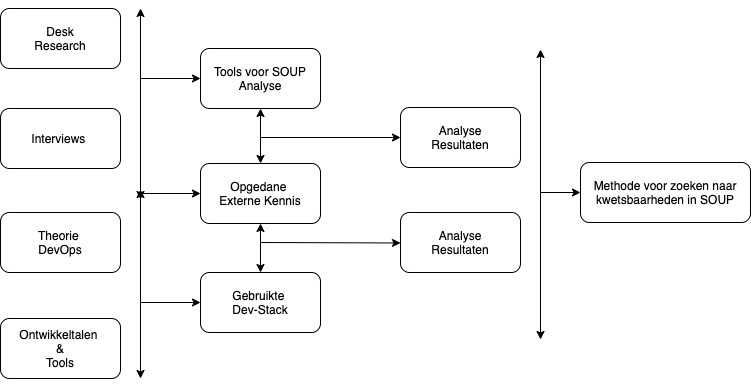
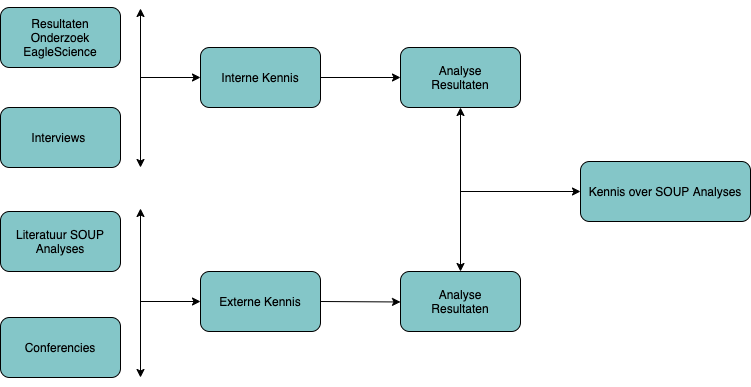
MarginPars EXit, Onderzoeksmethode opnieuw geschreven

diff --git a/Chapters/0302-OnderzoekMethode.tex b/Chapters/0302-OnderzoekMethode.tex
@@ -1,26 +1,27 @@
-%TODO: MarginPARS zetten
-%TODO: Figuur plaatsing Bas Broere vragen.
 \chapter{Onderzoeksmethode}\label{ch:onderzoeksmethode} % Chapter title
 
-Op basis van de requirements analyse beschreven in het vorige deel zijn er een aantal vragen ontstaan die verder onderzoek behoeven. Er is gekozen om het onderzoek op te delen in drie delen, waarbij iedere deel in een eigen hoofdstuk wordt beschreven. De Onderwerpen zijn gekozen omdat ze kennis verschaffen welke in het ontwerp van de nieuwe oplossing.
+Op basis van de requirements analyse beschreven in het vorige deel zijn er een aantal vragen ontstaan die verder onderzoek behoeven. Er is gekozen om het vooronderzoek op te delen in drie delen, waarbij iedere deel in een eigen hoofdstuk wordt beschreven. De onderwerpen zijn gekozen omdat ze kennis verschaffen in de materie wat vervolgens gebruikt kan worden in het uiteindelijke ontwerp.
+Als eerste dient er gekeken worden hoe er binnen EagleScience software ontwikkeld en uitgerold wordt. Deze kennis is nodig om te zien hoe er op dit moment een applicatie wordt uitgerold en/of er aanpassingen gedaan moeten worden binnen die methode. Ook geeft het inzicht in de gebruikte dev-stack welke op zijn beurt weer beperkingen oplegt in de mogelijk te gebruiken tools. Naast vragen binnen EagleScience dient er ook een onderzoek gedaan te worden over het fenomeen SOUP en de gevaren die het mogelijk met zich meebrengt. Met daarop volgend een onderzoek naar tooling die ingezet kan worden om kwetsbaarheden binnen SOUP op te sporen binnen de huidige manier van uitrollen.
 
-Als eerste dient er gekeken worden hoe er binnen EagleScience software ontwikkeld en uitgerold wordt. Deze kennis is nodig om te zien of er aanpassingen gedaan kunnen worden binnen de huidige methode en/of uitrolstraat. Daarnaast geeft het inzicht in de gebruikte platformen en daarbij de architectuur waarin er een applicatie moet worden ontwikkeld. Om verder inzicht te verkrijgen in de materie rondom SOUP en de gevaren van die het potentieel met zich meebrengt dient er onderzoek gedaan te worden naar dit onderwerp. Als laatste dient er een onderzoek gedaan te worden naar de mogelijkheden om een analyse te doen binnen de gebruikte architectuur van EagleScience. Hierin moet worden gekeken naar externe bibliotheken en/of tooling die aangemerkt zijn als veilig. Het laatste onderzoek in dit deel bevat alle resultaten samen. Dit hoofdstuk kan als ingang worden gebruikt voor het ontwerp en de implementatie welke beschreven is in het volgende deel.
+Dit hoofdstuk beschrijft een plan van aanpak hoe de onderzoeken gedaan gaan worden met in het bijzonder aandacht voor het doel, scope en de methode die gehanteerd wordt om het gezette doel te bereiken.
 
-In dit hoofdstuk zal er worden gekeken naar de onderzoeks methoden voor de drie onderzoeken. HEt zal ingaan op de scope, gebruikte bronnen en technieken om deze onderzoeken te doen.
+%In dit hoofdstuk zal er worden gekeken naar de onderzoeks methoden voor de drie onderzoeken. Het zal ingaan op de scope, gebruikte bronnen en technieken om deze onderzoeken te doen.
 %aantal vragen ontstaan die verder onderzoek benodigd behoeven. In dit deel worden de vragen geanalyseerd en beantwoord zodat er een duidelijkheid is in de materie en een goede basis wordt gelegd voor de daadwerkelijke implementatie beschreven in het volgende deel. Er is gekozen om het vooronderzoek in drie hoofdstukken op te delen omdat ieder deel onderzoek een eigen uitgesproken onderwerp heeft. Zeker het onderzoek naar de manier van werken binnen EagleScience staat in zeker los van de thee hoofdstukken over cybersecurity en later over methodes om bibliotheken te analyseren. Echter is de informatie die het resultaat is van het ene onderzoek input voor het onderzoek erna. Door eerst te kijken naar de manier waarop Eaglescience werkt kan die als een scope dienen voor de onderzoeken die er na uitgevoerd worden.
 %
 %Om verder inzicht te krijgen in de materie rondom de opdracht is er onderzoek nodig. Er worden drie onderzoek gedaan die ieder zijn eigen onderwerp hebben. Gezamelijk zorgen ze voor input voor het ontwerp en de daadwerkelijke implementatie. In dit hoofdstuk word ingegaan op de manier waarop de onderzoeken zijn uitgevoerd en welk doel zei hebben. Daarna volgt er voor ieder onderzoek een eigen hoofdstuk die het onderwerp behandeld en met resultaten komt. Als laatst is er een algehele conclussie die als input dient voor het ontwerp van de implementatie.
 
 
 \section{Scope}\label{sec:Scope}
-Software veiligheid is een breed gebied met veel relevante onderwerpen binnen het ontwikkelen van software. Echter gezien de gewenste oplossing alleen inzicht geeft in gevaren die met zich meebrengen
-Het onderzoek zal zich beperken tot de benodigde informatie voor het implementeren van de nieuwe oplossing voor een geautomatiseerde SOUP analyse. Hierdoor zullen andere onderwerpen binnen het veilig ontwerpen van software niet worden onderzocht. Zo zullen ook niet alle bedrijfprocessen binnen EagleScience worden onderzocht en alleen gekeken worden naar de processen binenn het uitrollen van de software. EagleScience doet veel aan het veilig ontwerpen van zijn eigen ontwikkelde software waardoor de noodzaak op het moment van het geven van de opdracht niet hoog ligt.
+Het veiliger maken van software is een breed gebied met veel relevante onderwerpen. Deze opdracht beperkt zich tot het analyseren van bibliotheken van derden (SOUP bibliotheken). Het voor onderzoek dat gedaan moet worden zal zich dan ook beperken tot deze analyse. Daarnaast is het noodzaak om alleen een onderzoek te doen naar methode die passen binnen de huidige manier van software ontwikkeling binnen EagleScience. Dit geeft dus een restrictie in het onderzoek naar de beste methode om kwetsbaarheden te zoeken in software.
+%Software veiligheid is een breed gebied met veel relevante onderwerpen binnen het ontwikkelen van software. Echter gezien de gewenste oplossing alleen inzicht geeft in gevaren die met zich meebrengen
+%Het onderzoek zal zich beperken tot de benodigde informatie voor het implementeren van de nieuwe oplossing voor een geautomatiseerde SOUP analyse. Hierdoor zullen andere onderwerpen binnen het veilig ontwerpen van software niet worden onderzocht. Zo zullen ook niet alle bedrijfprocessen binnen EagleScience worden onderzocht en alleen gekeken worden naar de processen binenn het uitrollen van de software. EagleScience doet veel aan het veilig ontwerpen van zijn eigen ontwikkelde software waardoor de noodzaak op het moment van het geven van de opdracht niet hoog ligt.
 
-
-\section{Onderzoek 1: Architectuur binnen EagleScience}\label{sec:onderzoeksmethode-architectuur-binnen-eaglescience}
-Het \textbf{doel} van dit onderzoek is om kennis te vergaren over de manier van uitrollen van software binnen EagleScience. Daarnaast moet het onderzoek inzicht geven in de gebruikte dev-stack( programeertalen, tooling en frameworks). De uitkomst is relevant omdat het een basis is waar de nieuwe oplossing werkzaam in moet zijn. De \textbf{methodes} die gebruikt worden zijn de interne documenten over de verschillende platformen en werkwijzen die beschikbaar zijn gesteld door het bedrijf zelf. De kennis uit deze documenten kan worden aangevuld door informatie welke verstrekt is door de leveranciers. Daarnaast zullen er gesprekken plaats vinden met collega's. Deze input geeft het volgende onderzoeks model wat te zien is in figuur~\ref{fig:OnderzoeksModelEaglescience}
+\section{Vooronderzoeken}
+De vooronderzoeken hebben ieders een eigen onderwerp, doel, onderzoeksvraag en methode
+\subsection{Onderzoek 1: Architectuur binnen EagleScience}\label{sec:onderzoeksmethode-architectuur-binnen-eaglescience}
+Het \textbf{doel} van dit onderzoek is om kennis te vergaren over de manier van uitrollen van software binnen EagleScience. Daarnaast moet het onderzoek inzicht geven in de gebruikte dev-stack( programeertalen, tooling en frameworks). De uitkomst is relevant omdat het een basis is waar de nieuwe oplossing werkzaam in moet zijn. De \textbf{Scope} van dit onderzoek beperkt zich dan ook alleen op de processen van die direct iets te maken hebben met het ontwikkelen en uitrollen van de software. Uit het doel en de scope komt de volgende \textbf{onderzoeksvraag}: "Welke methode en ontwikkeltalen worden er gebruikt om binnen EagleScience software te ontwikkelen en uit te rollen?". De \textbf{methodes} die gebruikt worden zijn de interne documenten over de verschillende platformen en werkwijzen die beschikbaar zijn gesteld door het bedrijf zelf. De kennis uit deze documenten kan worden aangevuld door informatie welke verstrekt is door de leveranciers. Daarnaast zullen er gesprekken plaats vinden met collega's. Deze input geeft het volgende onderzoeks model wat te zien is in figuur~\ref{fig:OnderzoeksModelEaglescience}
 De \textbf{bronnen} die voornamelijk gebruikt worden zijn interne documenten waarin vermeld staat hoe een project verloopt en welke tooling er gebruikt wordt. Daarnaast zal er veel gebruik gemaakt worden van kennis van collega's en die ik zelf heb opgedaan dan al niet tijdens mijn opleiding.
-\begin{figure}[htbp] %todo: Nog in kleur zetten van Eaglescience als deze goed is.
+\begin{figure}[htbp]
     \myfloatalign
     \includegraphics[width=10cm]{gfx/OnderzoeksmodelES}
     \caption{Onderzoeksmodel Eaglescience}
@@ -28,12 +29,12 @@ De \textbf{bronnen} die voornamelijk gebruikt worden zijn interne documenten waa
 \end{figure}
 
 
-\newpage % quickfix om volgordelijkheid te veranderen voor figuren...
+%\newpage % quickfix om volgordelijkheid te veranderen voor figuren...
 
 
-\section{Onderzoek 2: Literatuur studie veiligere software door SOUP analyse}\label{sec:onderzoek:-literatuur-studie-soup}
-Het \textbf{doel} van dit onderzoek is om inzicht te krijgen wat een SOUP analyse is en hoe relevant het is om dit te doen. Daarnaast wordt er gekeken wat de SOUP analyse toevoegd aan de veiligheid van de software die EagleScience levert. De gebruikte \textbf{Methodes} zullen deskresearch zijn aangevuld met interviews. Interviews met collega's zullen inzicht brengen in methodes die al worden toegepast om software veiliger te maken. Het onderzoeksmodel welke te zien is in figuur~\ref{fig:OnderzoeksModelNoodZaakSOUP} geeft een beeld hoe dit inzicht wordt bewerkstelligd. De \textbf{bronnen} welke gebruikt worden zullen online bronnen zijn aangevuld met vraaggesprekken met collega's en medewerkers van instanties die zich bezighouden met het veiliger maken van software.
-\begin{figure}[htbp] %Todo: Nog in kleur zetten van Eaglescience als deze goed is.
+\subsection{Onderzoek 2: Literatuur studie veiligere software door SOUP analyse}\label{sec:onderzoek:-literatuur-studie-soup}
+Het \textbf{doel} van dit onderzoek is om inzicht te krijgen wat een SOUP-analyse is en hoe relevant het is om dit te doen. Daarnaast wordt er gekeken wat de SOUP analyse toevoegd aan de veiligheid van de software die EagleScience levert. Met dit doel is de \textbf{scope} dat er alleen gekeken wordt naar soup-analyses en dat andere methoden die software veiliger maken wel aanbod komen als referentie maar niet verder worden uitgezocht.  De gebruikte \textbf{methodes} zullen deskresearch zijn aangevuld met interviews. Interviews met collega's zullen inzicht brengen in methodes die al worden toegepast om software veiliger te maken. Daarnaast zijn een aantal conferenties die gehouden worden met software veiligheid als onderwerp. Deze conferenties staan nu door de huidige wereld situatie online en zijn veelal terug te kijken. Het onderzoeksmodel welke te zien is in figuur~\ref{fig:OnderzoeksModelNoodZaakSOUP} geeft een beeld hoe de methoden worden toegepast om tot een eindresultaat te komen. De \textbf{bronnen} die gebruikt zullen worden zullen online bronnen zijn aangevuld met vraaggesprekken met collega's en medewerkers van instanties die zich bezighouden met het veiliger maken van software. Daarnaast worden relevante presentaties van conferenties terug gekeken voor verdere informatie.
+\begin{figure}[htbp]
     \myfloatalign
     \includegraphics[width=10cm]{gfx/OnderzoeksmodelSOUP}
     \caption{Onderzoeksmodel SOUP analyse module}
@@ -57,12 +58,12 @@ Het \textbf{doel} van dit onderzoek is om inzicht te krijgen wat een SOUP analys
 %
 
 \newpage % tijdelijk om te zorgen dat figuur op zelfde pagina als tekst komt
-\section{Onderzoek 3: Implementatie van een SOUP-analyse}\label{sec:onderzoek-naar-soup-analyse}
-Het \textBF{doel} is om een tooling/bibliotheken te vinden die gebruikt kan worden om soup analyses te doen die binnen de huidige methode van uitrollen van eaglescience past. Daarnaast moet in kaart worden gebracht welke output deze methode genereert zodat het input geeft in de nieuwe oplossing. De \textbf{methode} die gebruikt wordt is deskresearch om te onderzoeken welke tooling er bestaat. Als er een selectie is gemaakt voor een tool dient deze in een kleine testopstelling getest te worden om vervolgens te kijken of we deze kunnen implementeren in de bestaande uitrolmethode. De \textbf{bronnen} die gebruikt zullen worden zijn informatie bronnen van leveranciers van dergelijke tooling. Daarnaast zullen de bevindingen middels een review worden geverifieerd op bruikbaarheid bij de opdrachgever. Het onderzoeksmodel voor dit onderzoek is te vinden in figuur~\ref{fig:OnderzoeksModelSOUPAnalyse}
+\subsection{Onderzoek 3: Implementatie van een SOUP-analyse}\label{sec:onderzoek-naar-soup-analyse}
+Het \textBF{doel} is om een tooling/bibliotheken te vinden die gebruikt kan worden om soup analyses te doen die binnen de huidige methode van uitrollen van eaglescience past. Daarnaast moet in kaart worden gebracht welke output deze methode genereert zodat het input geeft in de nieuwe oplossing. De \textbf{methode} die gebruikt wordt is deskresearch om te onderzoeken welke tooling er bestaat. Als er een selectie is gemaakt voor een tool dient deze in een kleine testopstelling getest te worden om vervolgens te kijken of we deze kunnen implementeren in de bestaande uitrolmethode. De \textbf{bronnen} die gebruikt zullen worden zijn informatie bronnen van leveranciers van dergelijke tooling. Daarnaast zullen de bevindingen middels een review worden geverifieerd op bruikbaarheid bij de opdrachgever. Het onderzoeksmodel voor dit onderzoek is te vinden in figuur~\ref{fig:OnderzoeksModelSOUPmethode}
 
 \begin{figure}[htbp] %Todo: Aanpassen aan het onderzoeksmodel van SOUP analyse
     \myfloatalign
-    \includegraphics[width=10cm]{gfx/OnderzoeksmodelSOUP}
+    \includegraphics[width=10cm]{gfx/OnderzoeksModelSOUPMethode}
     \caption{Onderzoeksmodel SOUP analyse module}
-    \label{fig:OnderzoeksModelSOUPAnalyse}
+    \label{fig:OnderzoeksModelSOUPmethode}
 \end{figure}

diff --git a/Chapters/0101-Opdrachtgever.tex b/Chapters/0101-Opdrachtgever.tex
@@ -10,7 +10,7 @@ Het hier beschreven onderzoek en de daarbij behorende applicatie is geschreven i
 
 %Eaglescience ontwikkeld al 11 jaar complexe maatsoftware op projectbasis voor diverse klanten in Nederland. Dit doet het door intensief met de klant te werken aan een eindproduct. Naast het ontwikkelen van software biedt Eaglescience ook de mogelijkheid aan klanten om zorg te dragen voor de eventuele hosting van het opgeleverde product. Eaglescience kan hierdoor nog beter garanderen dat de geboden kwaliteit in de software gewaarborgd blijft tijdens de levensduur van de software.
 
-\section{Organisatie}\label{sec:organisatie}\marginpar{Organisatie}
+\section{Organisatie}\label{sec:organisatie}
 
 %TODO: beschrijving van de drie divisies. welke taken hebben iederen precies. en wat zijn de de hoofdoelen.
 Eaglescience BV bestaat uit drie divisies: Innovations, Software en Solutions (figuur~\ref{fig:Eaglescience organogram}). Het bestaat op het moment van schrijven uit $\pm$ 20 medewerkers waarvan 75\% verantwoordelijk is voor de ontwikkeling van de geleverde software. De andere 25\% bekleed een support rol zoals project manager, finance manager, quality manager, automatisering etc.
@@ -30,17 +30,16 @@ Het dagelijks bestuur is handen van:
 \end{itemize}
 Onder het dagelijks bestuur valt Team Eaglescience wat bestaat uit projectmanagers en ontwikkelaars. Deze zijn onderverdeeld in diverse scrum teams die ieders verantwoordelijk zijn voor een project. De ontwikkelaars worden parallel ingezet op meerdere projecten om kennisdeling te bevorderen.
 
-\subsection{Missie}\label{subsec:missie}\marginpar{Missie}
+\subsection{Missie}\label{subsec:missie}
 
 De missie van Eaglescience is het bedienen van haar partners door een ontwerp, ontwikkeling en service te bieden op het gebied van op maat gemaakte IT-oplossingen. Om hier voor te zorgen heeft Eaglescience goed opgeleide IT-professionals in dienst die zichzelf continue ontwikkelen op de “cutting edge” van IT-technologie. De hoofdcompetenties van de medewerkers zijn: innovatief, intelligent, klant georiënteerd, flexibel en ambitieus.
 
-\subsection{Visie}\label{subsec:visie}\marginpar{Visie}
+\subsection{Visie}\label{subsec:visie}
 Eaglescience streeft er als innovatief IT-bedrijf naar om software te ontwikkelen als een Business-to-Business dienst. Middels technische vaardigheden bouwen we veilige en hoogwaardige software die bijdraagt aan een betere wereld. Omdat we agile werken, leveren we precies wat nodig is, niets meer en niets minder. Wij helpen onze klanten zoeken naar een langdurige betrokkenheid en samenwerking op basis van zowel vertrouwen als wederzijds respect. \\
 
 Omdat elke vraag uniek is, ontwikkeld Eaglescience op maat gemaakte en innovatieve software.  We zijn van plan deel uit te maken van het hele proces van het formuleren van een idee tot het lanceren van het product en het waarborgen van de productie levenscyclus. Onze belangrijkste succesfactor zijn de mensen, die zich continu ontwikkelen door met de nieuwste technieken te werken op diverse projecten. Wij streven naar een optimale balans tussen werk en privé. Dit geeft onze medewerkers veel vrijheid, maar vereist zelfdiscipline en verantwoordelijkheid.
 
 \subsection{Strategie}\label{subsec:strategie}
-\marginpar{strategische thema's}
 Eaglescience levert de visie via vier strategische thema's:
 \begin{itemize}
     \item Maatschappelijke verantwoordelijkheid
@@ -57,7 +56,7 @@ We streven ernaar om veilige en hoogwaardige software diensten te leveren die wa
 \end{itemize}
 
 \section{Werkwijze}\label{sec:werkwijze}
-\marginpar{Werkwijze}
+
 Zoals eerder gemeld werkt Eaglescience op projectbasis met ontwikkelaars in meerdere teams. Er wordt geprobeerd "Full scrum" te werken waarbij de requirements van de klant centraal staan. Als een project wordt aangenomen door het managementteam dan wordt deze in sprints in samenspraak met de klant ontwikkeld. De klant wordt nauw betrokken bij het verloop van de ontwikkeling door het geven van demo's aan het einde van iedere sprint. Hier wordt gemeten hoe de applicatie zich gedraagt met betrekking tot de requirements van de klant. Dit is ook het moment dat er feedback gegeven wordt en waar nodig gestuurd kan worden in het verdere verloop. Op het moment dat er een applicatie klaar is wordt de software al dan niet overgedragen aan de klant of doorgegeven aan support en hosting die verantwoordelijk zijn voor de daadwerkelijke hosting van de software.
 
 %TODO: Figuur in NL vertalen
@@ -71,5 +70,5 @@ Zoals eerder gemeld werkt Eaglescience op projectbasis met ontwikkelaars in meer
 Naast het ontwikkel process zijn er een aantal supporting processen die ervoor zorg dragen dat het bedrijf blijft draaien en er nieuwe mensen aangenomen kunnen worden. Maar ook een deel automatisering die voor ondersteuning zorgt van platformen waarop ontwikkeld en/of gehosted wordt.  Eaglescience ontwikkeld op projectbasis en op die manier worden er ook inkomsten gegenereerd. Alle processen die draaien moeten dus ingezet kunnen worden op projecten van klanten. Als er een project voor in huis gebruik wordt ondernomen moet er een duidelijk beeld zijn of er op termijn winst mee te behalen is op monetair vlak dan al niet tijdswinst of ontwikkel gemak.
 
 \section{Relevante en actuele ontwikkelingen binnen Eaglescience}\label{sec:relevante-en-actuele-ontwikkelingen-binnen-eaglescience}
-\marginpar{actuele ontwikkelingen}
+
 Eaglescience is aan het groeien, zowel in het aantal projecten waar aan gewerkt wordt als het aantal medewerkers. Daarnaast worden de diensten die Eaglescience aanbied ook uitgebreid, en wordt het hosten van de ontwikkelde applicaties steeds vaker aangeboden. Door deze inzet ligt de verantwoordelijkheid niet alleen bij het leveren van een veilige en hoogwaardige software, maar ook bij het leveren van een veilige hosting service. Naast de groei van het bedrijf is ook zeker de uitbreiding van diensten die aangeboden worden een reden om taken die geautomatiseerd kunnen dan ook te automatiseren.

diff --git a/main.tex b/main.tex
@@ -63,30 +63,30 @@
 %	PRE-CONTENT THESIS PAGES
 %----------------------------------------------------------------------------------------
 
-%\include{FrontBackMatter/Titlepage} % Main title page
+\include{FrontBackMatter/Titlepage} % Main title page
 
-%\include{FrontBackMatter/Titleback} % Back of the title page
+\include{FrontBackMatter/Titleback} % Back of the title page
 
-%\cleardoublepage\include{FrontBackMatter/Dedication} % Dedication page
+\cleardoublepage\include{FrontBackMatter/Dedication} % Dedication page
 
-%\cleardoublepage\include{FrontBackMatter/Foreword} % Uncomment and create a Foreword.tex to include a foreword
+\cleardoublepage\include{FrontBackMatter/Foreword} % Uncomment and create a Foreword.tex to include a foreword
 
-%\cleardoublepage\include{FrontBackMatter/Abstract} % Abstract page
+\cleardoublepage\include{FrontBackMatter/Abstract} % Abstract page
 
-%\cleardoublepage\include{FrontBackMatter/Publications} % Publications from the thesis page
+\cleardoublepage\include{FrontBackMatter/Publications} % Publications from the thesis page
 
-%\cleardoublepage\include{FrontBackMatter/Acknowledgments} % Acknowledgements page
+\cleardoublepage\include{FrontBackMatter/Acknowledgments} % Acknowledgements page
 
 \pagestyle{scrheadings} % Show chapter titles as headings
 
-%\cleardoublepage\include{FrontBackMatter/Contents} % Contents, list of figures/tables/listings and acronyms
+\cleardoublepage\include{FrontBackMatter/Contents} % Contents, list of figures/tables/listings and acronyms
 
 \cleardoublepage
 
 \pagenumbering{arabic} % Arabic page numbering for thesis content (1, 2, 3, etc)
 %\setcounter{page}{90} % Uncomment to manually start the page counter at an arbitrary value (for example if you wish to count the pre-content pages in the page count)
 
-%\cleardoublepage % Avoids problems with pdfbookmark
+\cleardoublepage % Avoids problems with pdfbookmark
 
 %----------------------------------------------------------------------------------------
 %	THESIS CONTENT - CHAPTERS
@@ -94,7 +94,7 @@
 
 % Text on the Part 1 page describing  the content in Part 1
 
-%\include{Chapters/0000-Inleiding}
+\include{Chapters/0000-Inleiding}
 
 \ctparttext{}
 \part{Opdracht}\label{prt:opdracht}
@@ -106,32 +106,32 @@
 \include{Chapters/0201-ReqPlanInl}
 \include{Chapters/0202-RequirementAnalyse}
 
-%\ctparttext{}
-%\part{Onderzoek}\label{prt:Onderzoek} % Second part of the thesis
-%\include{Chapters/0301-OnderzoekInl}
-%\include{Chapters/0302-OnderzoekMethode}
-%\include{Chapters/0303-OnderzoekEaglescience}
-%\include{Chapters/0304-OnderzoekCyberSecurity}
-%\include{Chapters/0305-OnderzoekSOUPAnalyse}
-%\include{Chapters/0306-OnderzoekConc}
-%
-% \ctparttext{}
-% \part{Ontwikkeling van SOUP module}\label{prt:Impolementatie}
-% \include{Chapters/0401-impInl}
-% \include{Chapters/0402-FunctioneelOntwerp}
-% \include{Chapters/0403-implarchitectuur}
-% \include{Chapters/0404-implImplementatie}
-% \include{Chapters/0405-implTesting}
-% \include{Chapters/0406-implDeploy}
-% \include{Chapters/0407-implResultaat}
-%
-% \ctparttext{}
-%
-% \part{Conclusie en andere afsluitende dingen}\label{prt:Conclussie}
-% \include{Chapters/0501-conInl}
-% \include{Chapters/0502-conclussie}
-%
-%\cleardoublepage % Empty page before the start of the next part
+\ctparttext{}
+\part{Onderzoek}\label{prt:Onderzoek} % Second part of the thesis
+\include{Chapters/0301-OnderzoekInl}
+\include{Chapters/0302-OnderzoekMethode}
+\include{Chapters/0303-OnderzoekEaglescience}
+\include{Chapters/0304-OnderzoekCyberSecurity}
+\include{Chapters/0305-OnderzoekSOUPAnalyse}
+\include{Chapters/0306-OnderzoekConc}
+
+ \ctparttext{}
+ \part{Ontwikkeling van SOUP module}\label{prt:Impolementatie}
+ \include{Chapters/0401-impInl}
+ \include{Chapters/0402-FunctioneelOntwerp}
+ \include{Chapters/0403-implarchitectuur}
+ \include{Chapters/0404-implImplementatie}
+ \include{Chapters/0405-implTesting}
+ \include{Chapters/0406-implDeploy}
+ \include{Chapters/0407-implResultaat}
+
+ \ctparttext{}
+
+ \part{Conclusie en andere afsluitende dingen}\label{prt:Conclussie}
+ \include{Chapters/0501-conInl}
+ \include{Chapters/0502-conclussie}
+
+\cleardoublepage % Empty page before the start of the next part
 
 %------------------------------------------------
 
@@ -145,25 +145,26 @@
 %	THESIS CONTENT - APPENDICES
 %----------------------------------------------------------------------------------------
 
-%\appendix
+\appendix
 %
-%\part{Appendix}\label{prt:Appendix} % New part of the thesis for the appendix
+
+\part{Appendix}\label{prt:Appendix} % New part of the thesis for the appendix
 %
-%\include{Chapters/A01-Interviews}
-%\include{Chapters/A02-Requirements-specificatie}
-%\include{Chapters/A03-VoortgangModule}
-%\include{Chapters/A04-begrippenlijst}
-%\include{Chapters/Axx-TypeSetTests}
+\include{Chapters/A01-Interviews}
+\include{Chapters/A02-Requirements-specificatie}
+\include{Chapters/A03-VoortgangModule}
+\include{Chapters/A04-begrippenlijst}
+\include{Chapters/Axx-TypeSetTests}
 
 %----------------------------------------------------------------------------------------
 %	POST-CONTENT THESIS PAGES
 %----------------------------------------------------------------------------------------
 
-%\cleardoublepage\include{FrontBackMatter/Bibliography} % Bibliography
+\cleardoublepage\include{FrontBackMatter/Bibliography} % Bibliography
 
-%\cleardoublepage\include{FrontBackMatter/Declaration} % Declaration
+\cleardoublepage\include{FrontBackMatter/Declaration} % Declaration
 
-%\cleardoublepage\include{FrontBackMatter/Colophon} % Colophon
+\cleardoublepage\include{FrontBackMatter/Colophon} % Colophon
 
 %----------------------------------------------------------------------------------------
 

diff --git a/Chapters/0102-Opdracht.tex b/Chapters/0102-Opdracht.tex
@@ -2,7 +2,7 @@
 
 \chapter{Opdracht}\label{ch:opdracht} % Chapter title
 
-%TODO: MarginPARS zetten
+
  % For referencing the chapter elsewhere, use \autoref{ch:examples}
 Tegenwoordig zijn software-bibliotheken niet meer weg te denken in het huidige software-ontwikkelproces. Bibliotheken geven ontwikkelaars de mogelijkheid code te hergebruiken in meerdere projecten, om zo efficiënter te kunnen ontwikkelen. Dit helpt op zijn beurt om de Time-To-Market te verkorten. Bibliotheken kunnen door bedrijven zelf geschreven worden, in het geval van EagseScience is dit ArchES, of worden overgenomen van andere bedrijven/instellingen. ArchES is echter ook afhankelijk van een aantal bibliotheken die niet ontwikkeld zijn door Eaglescience. Hierdoor kan niet worden voorkomen dat bibliotheken worden gebruikt waarvan de afkomst niet geheel kan worden herleiden.
 

diff --git a/Chapters/0103-PlanVanAanpak.tex b/Chapters/0103-PlanVanAanpak.tex
@@ -1,7 +1,5 @@
 
 \chapter{Plan van Aanpak}\label{ch:planvanaanpak} % Chapter title
-
-%TODO: MarginPARS zetten ?? Nodig
 %TODO: verder uitwerken wat er precies in elke stap gaat gebeuren.
 
 Gezien deze module een zekere impact heeft op de manier van werken binnen EagleScience is het goed om een solide plan van aanpak te hebben voor er daadwerkelijk begonnen wordt aan het ontwikkelen en uitrollen van de module. Hieronder is in sectie de vershillende fasen van het project beschreven met daarbij de geschatte tijd die het gaat duren. De onderstaande onderdelen van het project zijn allemaal te vinden in verdere hoofdstukken

diff --git a/Chapters/0202-RequirementAnalyse.tex b/Chapters/0202-RequirementAnalyse.tex
@@ -1,7 +1,6 @@
 
 \chapter{Requirements Analyse}\label{ch:requirements-analyse}
 
-%TODO: MarginPARS zetten
 Dit hoofdstuk beschrijft het probleem binnen het domein van EagleScience. Daarnaast wordt de huidige situatie beschreven waarna er een gewenste situatie wordt geschetst. De stakeholders worden defineert en in kaart gebracht Waarna hun requirements in kaart worden gebracht en middels de MoSCoW methode op prioriteit worden gezet. Het resultaat is een Requirements Specificatie die in zijn geheel is terug te vinden in Appendix~\ref{ch:requirements-specificatie}
 
 \section{Huidige situatie}\label{sec:huidige-situatie}

diff --git a/Chapters/0303-OnderzoekEaglescience.tex b/Chapters/0303-OnderzoekEaglescience.tex
@@ -1,6 +1,6 @@
 \chapter{Onderzoek: Architectuur binnen Eaglescience}\label{ch:onderzoek:-architectuur-binnen-eaglescience} % Chapter title
 
-%TODO: MarginPARS zetten
+
 Dit hoofdstuk geeft het onderzoek weer naar de manier waarop EagleScience software ontwikkeld en uitrold. Er wordt ingegaan op de verschillende programeertalen en frameworks die in gebruikt zijn als ook de tooling die wordt gebruikt om de software daadwerkelijk te ontwikkelen en uitrollen.
 
 %TODO: Vraag minder vaag maken denk ik ??

diff --git a/Chapters/0304-OnderzoekCyberSecurity.tex b/Chapters/0304-OnderzoekCyberSecurity.tex
@@ -4,7 +4,6 @@
 
 Goed verhaal over supplychain Attacks : https://learning.oreilly.com/library/view/alice-and-bob/9781119687351/c01.xhtml#head-2-27
 
-%TODO: MarginPARS zetten
 
 
 Cyber security wordt steeds belangrijker bij het ontwikkelen van web applicaties.

diff --git a/Chapters/0301-OnderzoekInl.tex b/Chapters/0301-OnderzoekInl.tex
@@ -2,7 +2,6 @@
 
 \chapter{Inleiding}\label{ch:inleiding3} % Chapter title
 
-%TODO: MarginPARS zetten
 
 \label{inOnderzoek} % For referencing the chapter elsewhere, use \autoref{ch:InOnderzoek}
 
